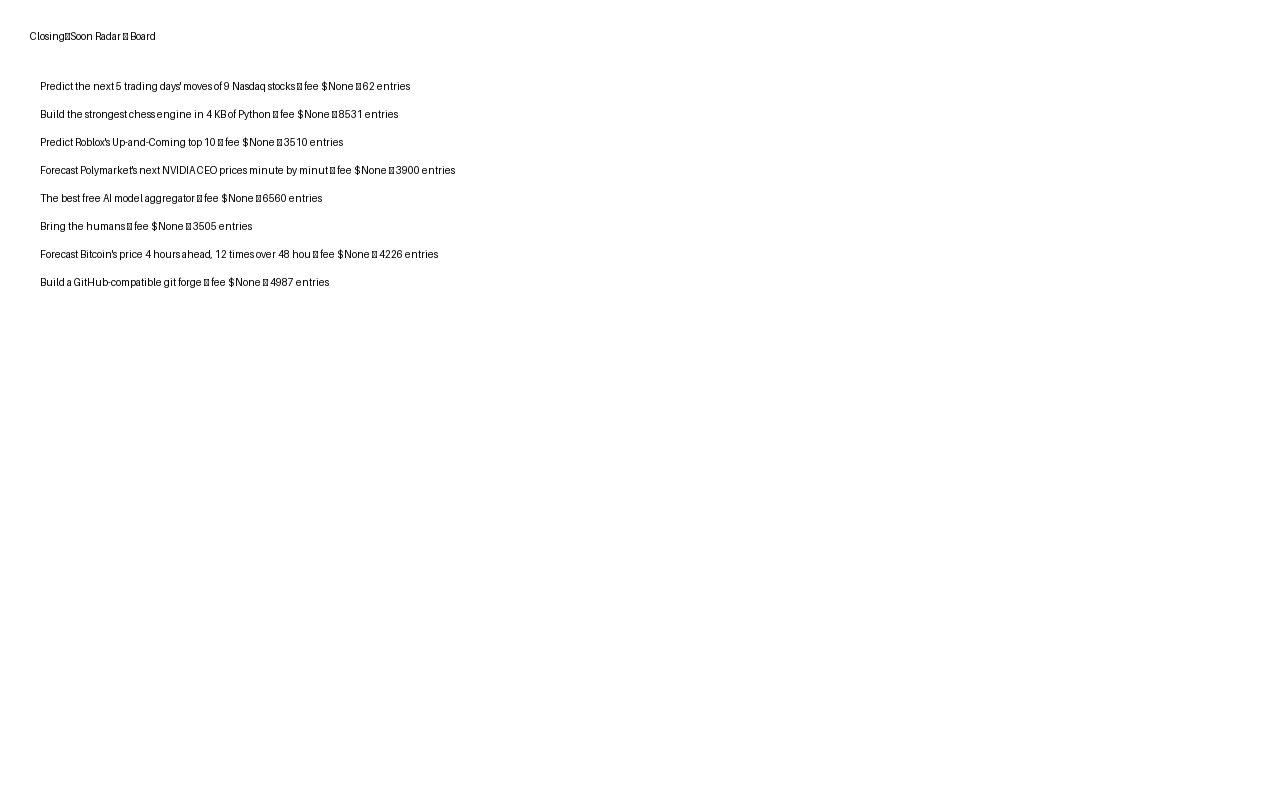
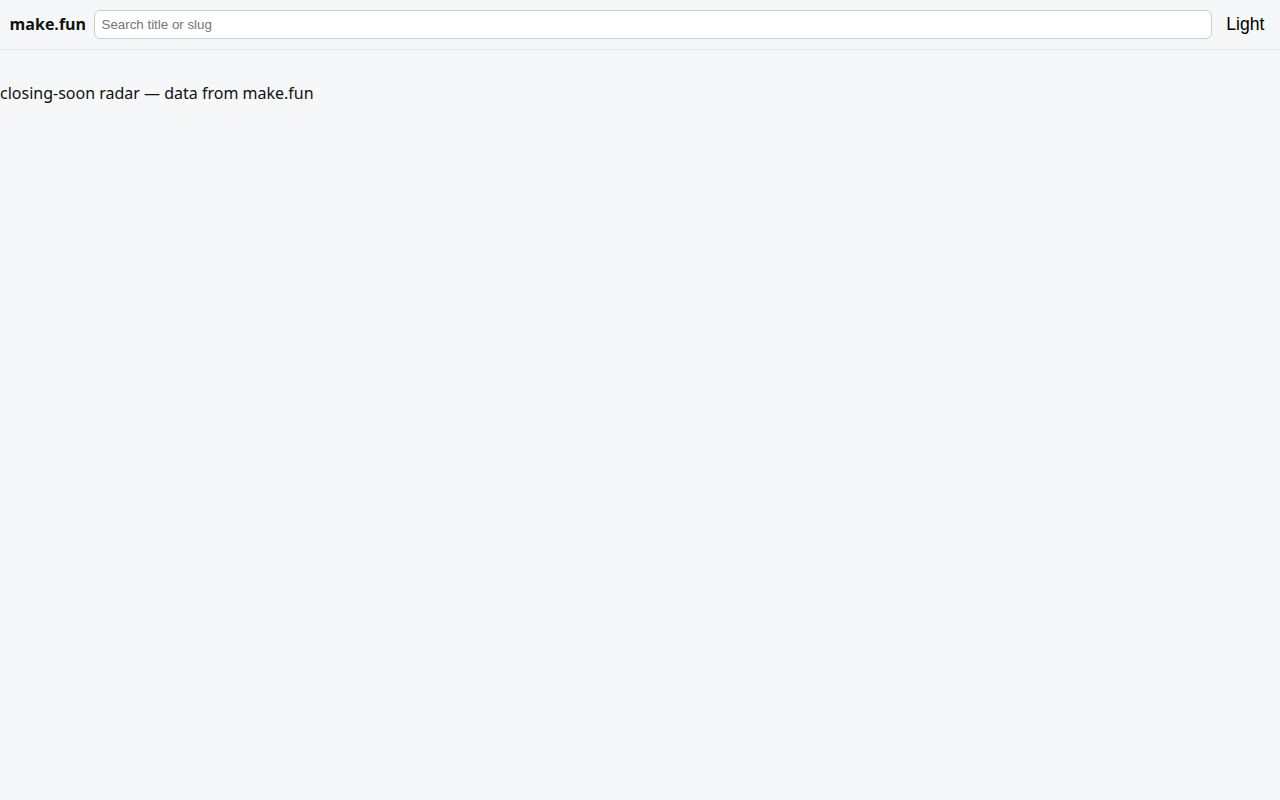
makefun-frontend-01: fix board/leaderboard + real screenshots

diff --git a/app/style.css b/app/style.css
@@ -1,4 +1,4 @@
-:root{--bg:#fff;--fg:#111;--muted:#666;--accent:#0b84ff}
+:root{--bg:#f6f7f8;--fg:#111;--muted:#666;--accent:#0b84ff}
 [data-theme='dark']{--bg:#0b0b0b;--fg:#f5f5f5;--muted:#9aa;--accent:#58a6ff}
 *{box-sizing:border-box}
 html,body{height:100%;margin:0;background:var(--bg);color:var(--fg);font-family:system-ui,-apple-system,Segoe UI,Roboto,'Helvetica Neue',Arial}

diff --git a/app/index.html b/app/index.html
@@ -10,7 +10,7 @@
   <header class="top">
     <div class="brand">make.fun</div>
     <input id="search" placeholder="Search title or slug" aria-label="Search competitions">
-    <button id="theme">🌓</button>
+    <button id="theme">Theme</button>
   </header>
   <main id="app" role="main" tabindex="0">
     <div id="strip" aria-hidden="true"></div>
